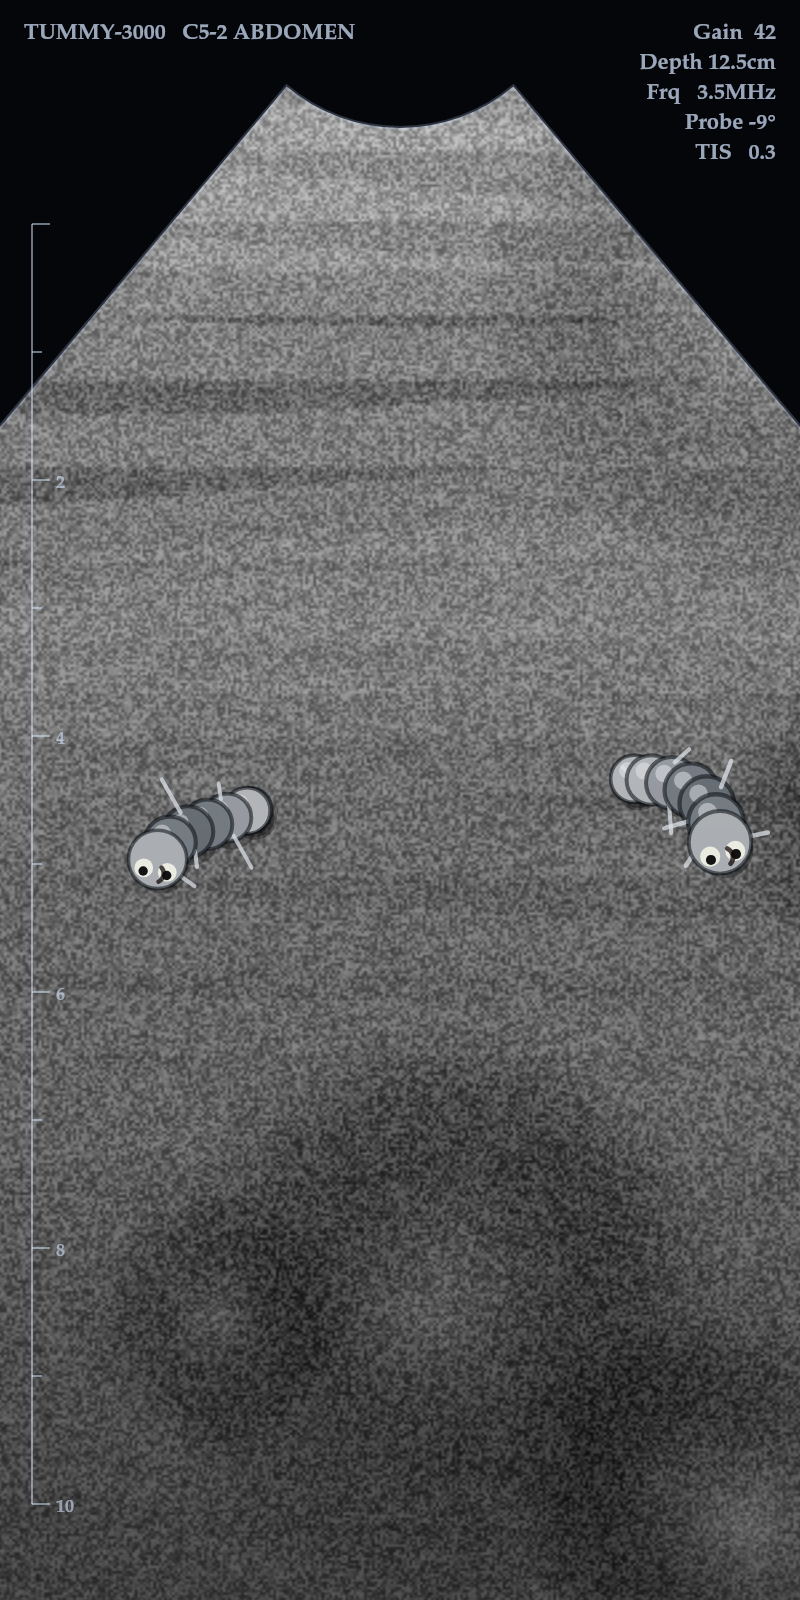
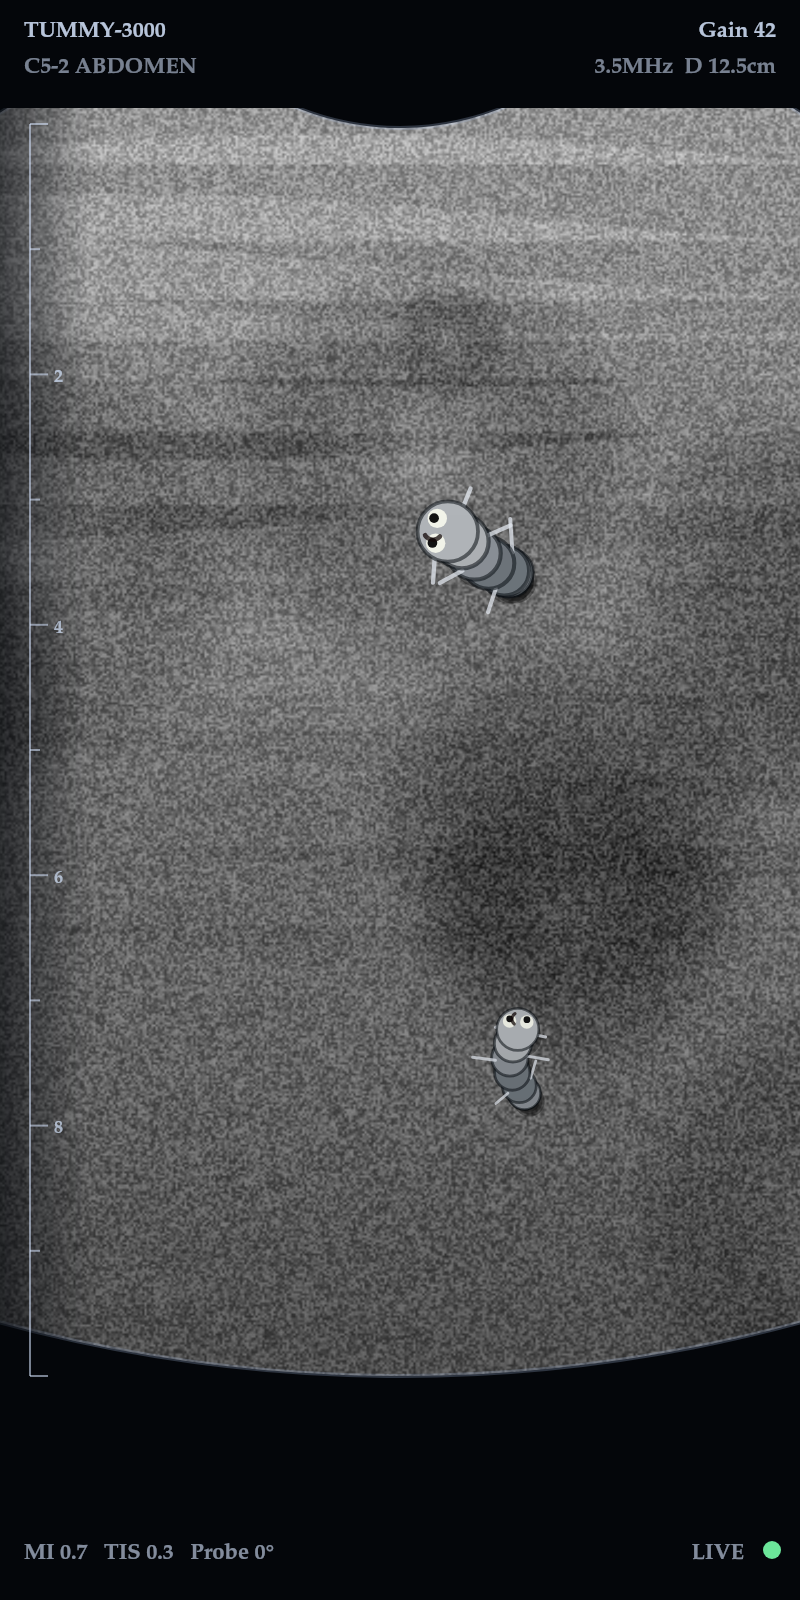
updated

diff --git a/index.html b/index.html
@@ -397,6 +397,30 @@
       .catch(function () { return false; });
   }
 
+  // Keep the belly sharp. Not every phone exposes these, so everything is optional.
+  function applyFocus(nx, ny) {
+    if (!track || !track.getCapabilities || !track.applyConstraints) return;
+    var caps;
+    try { caps = track.getCapabilities() || {}; } catch (e) { return; }
+    var adv = [];
+
+    if (caps.focusMode) {
+      var modes = caps.focusMode;
+      if (modes.indexOf("continuous") >= 0) adv.push({ focusMode: "continuous" });
+      else if (modes.indexOf("single-shot") >= 0) adv.push({ focusMode: "single-shot" });
+    }
+    // aim the focus (and metering, where supported) at the spot that was tapped
+    if (nx != null && caps.pointsOfInterest) {
+      var pt = [{ x: clamp(nx, 0, 1), y: clamp(ny, 0, 1) }];
+      adv.push({ pointsOfInterest: pt });
+      if (caps.exposureMode && caps.exposureMode.indexOf("continuous") >= 0) {
+        adv.push({ exposureMode: "continuous" });
+      }
+    }
+    if (!adv.length) return;
+    try { track.applyConstraints({ advanced: adv }).catch(function () {}); } catch (e) {}
+  }
+
   function stopCamera() {
     setTorch(false);
     if (stream) { stream.getTracks().forEach(function (t) { t.stop(); }); }
@@ -418,17 +442,27 @@
   // ------------------------------------------------------------------
   // MOTION SENSORS — moving the phone moves the picture, like a real probe
   // ------------------------------------------------------------------
-  var tiltRaw = { x: 0, y: 0 };     // -1..1 from the gyroscope
-  var tilt = { x: 0, y: 0 };        // smoothed
-  var panX = 0, panY = 0;           // pixels the image is shifted by
-  var frozenPan = { x: 0, y: 0 };
+  // Worms are anchored to a spot on the belly, not to the screen. The live
+  // camera already shows the real movement, so all we do is shift the worms
+  // the opposite way as the phone turns, which pins them in place.
+  //
+  // Orientation comes from beta/gamma, which are gravity-referenced and so
+  // don't drift the way an integrated gyro would.
+  var rawOri = { x: 0, y: 0 };      // degrees, straight off the sensor
+  var ori = { x: 0, y: 0 };         // smoothed
+  var oriRef = null;                // orientation when the worms were placed
+  var camX = 0, camY = 0;           // how far the view has moved, in pixels
+  var frozenCam = { x: 0, y: 0 };
   var motionMag = 0, motionOn = false, motionAsked = false;
+
+  // how many pixels one degree of turn is worth — roughly a screen width per 50°
+  function pxPerDeg() { return (W || 400) / 50; }
 
   function onOrient(e) {
     if (e.gamma == null && e.beta == null) return;
     motionOn = true;
-    tiltRaw.x = clamp((e.gamma || 0) / 40, -1, 1);          // roll left/right
-    tiltRaw.y = clamp(((e.beta || 0) - 50) / 40, -1, 1);    // pitch, around a natural holding angle
+    rawOri.x = e.gamma || 0;   // roll: left / right
+    rawOri.y = e.beta || 0;    // pitch: up / down
   }
 
   function onMotion(e) {
@@ -457,17 +491,27 @@
   }
 
   function updateMotion(dt) {
-    var k = Math.min(1, dt * 5.5);
-    tilt.x += (tiltRaw.x - tilt.x) * k;
-    tilt.y += (tiltRaw.y - tilt.y) * k;
+    var k = Math.min(1, dt * 9);
+    ori.x += (rawOri.x - ori.x) * k;
+    ori.y += (rawOri.y - ori.y) * k;
+
     // the hiss swells a little when the probe is moving
     if (noiseGain) {
       try { noiseGain.gain.value = clamp(0.04 + motionMag * 0.06, 0, 0.11); } catch (e) {}
     }
-    if (isFrozen) { panX = frozenPan.x; panY = frozenPan.y; return; }
-    panX = tilt.x * W * 0.17;
-    panY = tilt.y * H * 0.09;
+
+    if (isFrozen) { camX = frozenCam.x; camY = frozenCam.y; return; }
+    if (!oriRef) { camX = 0; camY = 0; return; }
+    var p = pxPerDeg();
+    camX = (ori.x - oriRef.x) * p;
+    camY = (ori.y - oriRef.y) * p;
   }
+
+  // call when the worms are placed — "here is where the belly is"
+  function resetOrientationRef() { oriRef = { x: ori.x, y: ori.y }; camX = 0; camY = 0; }
+
+  // screen position <-> belly ("world") position
+  function toWorld(sx, sy) { return { x: sx + camX, y: sy + camY }; }
 
   function setFrozen(on) {
     if (on) {
@@ -477,7 +521,7 @@
       frozenFrame.width = vw; frozenFrame.height = vh;
       frozenFrame.getContext("2d").drawImage(video, 0, 0, vw, vh);
       isFrozen = true;
-      frozenPan.x = panX; frozenPan.y = panY;   // lock the parallax too
+      frozenCam.x = camX; frozenCam.y = camY;   // lock the anchoring too
       torchBeforeFreeze = torchOn;
       setTorch(false);
       setStatus("Picture held ❄ — take the phone off and show them!");
@@ -582,9 +626,12 @@
   // ------------------------------------------------------------------
   function coneParams(w, h) {
     return {
-      ax: w / 2, ay: -h * 0.03,
-      a0: Math.PI / 2 - 0.70, a1: Math.PI / 2 + 0.70,
-      rIn: h * 0.11, rOut: h * 1.40
+      // ~62 degrees each side of straight down: a wide, shallow fan.
+      // rOut stops short of the bottom so the curved lower edge stays visible —
+      // without it the shape just reads as a rectangle with clipped corners.
+      ax: w / 2, ay: -h * 0.09,
+      a0: Math.PI / 2 - 1.00, a1: Math.PI / 2 + 1.00,
+      rIn: h * 0.17, rOut: h * 0.95
     };
   }
 
@@ -615,8 +662,13 @@
   // ------------------------------------------------------------------
   function Worm(x, y) {
     var sp = spawnPoint();
-    this.x = x != null ? x : sp.x;
-    this.y = y != null ? y : sp.y;
+    // positions are in belly ("world") space, not screen space
+    var p = toWorld(x != null ? x : sp.x, y != null ? y : sp.y);
+    this.x = p.x;
+    this.y = p.y;
+    this.homeX = p.x;          // the spot on the belly it belongs to
+    this.homeY = p.y;
+    this.roam = rand(26, 46);  // how far it will stray from that spot
     this.dir = rand(0, Math.PI * 2);
     this.speed = rand(16, 40);
     this.nSeg = randInt(12, 18);
@@ -646,20 +698,30 @@
     // wander: sine wiggle + gentle random steering
     this.dir += Math.sin(t * this.wig + this.phase) * dt * 2.4 + rand(-0.6, 0.6) * dt;
 
-    // keep them inside the ultrasound fan — bounce off the edge of the beam
+    // stay around the spot it was pinned to
+    if (!this.dying) {
+      var hx = this.homeX - this.x, hy = this.homeY - this.y;
+      var hd = Math.sqrt(hx * hx + hy * hy);
+      if (hd > this.roam) {
+        var toHome = Math.atan2(hy, hx);
+        var dh = Math.atan2(Math.sin(toHome - this.dir), Math.cos(toHome - this.dir));
+        var pull = Math.min(1, (hd - this.roam) / 50);
+        this.dir += clamp(dh, -1.2, 1.2) * pull * dt * 7;
+        if (hd > this.roam * 3) this.dir = toHome;   // yanked far away: head straight back
+      }
+    }
+
     var nx = this.x + Math.cos(this.dir) * this.speed * dt;
     var ny = this.y + Math.sin(this.dir) * this.speed * dt;
-    if (this.dying || insideCone(nx, ny, this.thick * 2.2)) {
+
+    // the beam lives in screen space, so test there
+    if (this.dying || insideCone(nx - camX, ny - camY, this.thick * 2.2)) {
       this.x = nx; this.y = ny;
     } else {
-      // turn back toward the middle of the beam
-      var k = coneParams(W, H);
-      var toMid = Math.atan2(H * 0.55 - this.y, W / 2 - this.x);
-      var diff = Math.atan2(Math.sin(toMid - this.dir), Math.cos(toMid - this.dir));
-      this.dir += clamp(diff, -1, 1) * 0.55 + rand(-0.2, 0.2);
+      var toMid = Math.atan2((H * 0.5 + camY) - this.y, (W / 2 + camX) - this.x);
+      var dm = Math.atan2(Math.sin(toMid - this.dir), Math.cos(toMid - this.dir));
+      this.dir += clamp(dm, -1, 1) * 0.55 + rand(-0.2, 0.2);
     }
-    this.x = clamp(this.x, 8, Math.max(9, W - 8));
-    this.y = clamp(this.y, 8, Math.max(9, H - 8));
 
     // body follows the head with fixed segment spacing
     var px = this.x, py = this.y;
@@ -985,11 +1047,13 @@
       // extra zoom leaves room to pan the image as the phone tilts.
       // canvas blur is the most expensive bit, so it's dropped on slow phones
       // and only used at all when the probe is actually moving.
+      // The feed is NOT panned. It's a live camera — it already moves when the
+      // phone moves. Faking a shift on top of that fights the real image.
       var base = "grayscale(1) contrast(1.5) brightness(0.82)";
       var blur = lowQ ? 0 : 0.4 + motionMag * 1.6;
       c.filter = blur > 0.05 ? base + " blur(" + blur.toFixed(2) + "px)" : base;
-      if (isFrozen && frozenFrame) drawCover(c, frozenFrame, frozenFrame.width, frozenFrame.height, w, h, panX, panY, 1.2);
-      else if (video.videoWidth) drawCover(c, video, video.videoWidth, video.videoHeight, w, h, panX, panY, 1.2);
+      if (isFrozen && frozenFrame) drawCover(c, frozenFrame, frozenFrame.width, frozenFrame.height, w, h);
+      else if (video.videoWidth) drawCover(c, video, video.videoWidth, video.videoHeight, w, h);
       c.filter = "none";
     } catch (e) { c.filter = "none"; }
     c.restore();
@@ -1037,41 +1101,67 @@
 
   function drawChrome(c, w, h, t) {
     c.save();
-    c.font = "600 11px ui-monospace, Menlo, Consolas, monospace";
-    c.textBaseline = "top";
-    c.fillStyle = "rgba(215,230,255,0.72)";
-    c.fillText("TUMMY-3000   C5-2 ABDOMEN", 12, 10);
+    var mono = "ui-monospace, Menlo, Consolas, monospace";
 
-    var deg = Math.round(tilt.x * 40);
-    var lines = [
-      "Gain  42",
-      "Depth 12.5cm",
-      "Frq   3.5MHz",
-      "Probe " + (deg > 0 ? "+" : "") + deg + "°",
-      motionMag > 0.18 ? "** MOVING **" : "TIS   0.3"
-    ];
+    // ---- header bar: sits just above the probe face, so text is never on tissue
+    var hb = 54;
+    c.fillStyle = "#04060a";
+    c.fillRect(0, 0, w, hb);
+    c.font = "600 11px " + mono;
+    c.textBaseline = "top";
+    c.fillStyle = "rgba(215,230,255,0.85)";
+    c.fillText("TUMMY-3000", 12, 9);
+    c.fillStyle = "rgba(215,230,255,0.55)";
+    c.fillText("C5-2 ABDOMEN", 12, 27);
+
     c.textAlign = "right";
-    for (var i = 0; i < lines.length; i++) c.fillText(lines[i], w - 12, 10 + i * 15);
+    c.fillStyle = "rgba(215,230,255,0.85)";
+    c.fillText("Gain 42", w - 12, 9);
+    c.fillStyle = "rgba(215,230,255,0.55)";
+    c.fillText("3.5MHz  D 12.5cm", w - 12, 27);
     c.textAlign = "left";
 
-    // depth ruler down the left edge
-    c.strokeStyle = "rgba(215,230,255,0.5)";
+    // ---- footer strip in the black below the fan
+    var fy = h - 30;
+    c.fillStyle = "#04060a";
+    c.fillRect(0, fy - 6, w, h - fy + 6);
+    var deg = Math.round(oriRef ? (ori.x - oriRef.x) : ori.x);
+    c.font = "600 11px " + mono;
     c.fillStyle = "rgba(215,230,255,0.6)";
+    c.fillText("MI 0.7   TIS 0.3   Probe " + (deg > 0 ? "+" : "") + deg + "°", 12, fy);
+
+    c.textAlign = "right";
+    if (motionMag > 0.18) {
+      c.fillStyle = "rgba(255,205,120,0.95)";
+      c.fillText("** MOVING **", w - 28, fy);
+    } else {
+      c.fillStyle = "rgba(215,230,255,0.6)";
+      c.fillText("LIVE", w - 28, fy);
+    }
+    c.textAlign = "left";
+    if (Math.sin(t * 4) > 0) {
+      c.fillStyle = "rgba(120,255,170,0.9)";
+      c.beginPath(); c.arc(w - 14, fy + 5, 4.5, 0, 6.2832); c.fill();
+    }
+
+    // ---- depth ruler, on its own dimmed strip so the numbers stay legible
+    var top = hb + 8, bot = h * 0.86;
+    var g = c.createLinearGradient(0, 0, 44, 0);
+    g.addColorStop(0, "rgba(4,6,10,0.62)");
+    g.addColorStop(1, "rgba(4,6,10,0)");
+    c.fillStyle = g;
+    c.fillRect(0, hb, 44, bot - hb + 14);
+
+    c.strokeStyle = "rgba(215,230,255,0.55)";
+    c.fillStyle = "rgba(215,230,255,0.7)";
     c.lineWidth = 1;
-    c.font = "600 9px ui-monospace, Menlo, Consolas, monospace";
-    var top = h * 0.14, bot = h * 0.94;
-    c.beginPath(); c.moveTo(16, top); c.lineTo(16, bot); c.stroke();
+    c.font = "600 9px " + mono;
+    c.beginPath(); c.moveTo(15, top); c.lineTo(15, bot); c.stroke();
     for (var d = 0; d <= 10; d++) {
       var yy = top + (bot - top) * (d / 10);
       var major = d % 2 === 0;
-      c.beginPath(); c.moveTo(16, yy); c.lineTo(16 + (major ? 9 : 5), yy); c.stroke();
-      if (major && d > 0) c.fillText(String(d), 28, yy - 4);
-    }
-
-    // blinking live indicator
-    if (Math.sin(t * 4) > 0) {
-      c.fillStyle = "rgba(120,255,170,0.9)";
-      c.beginPath(); c.arc(w - 16, h - 16, 4.5, 0, 6.2832); c.fill();
+      c.beginPath(); c.moveTo(15, yy); c.lineTo(15 + (major ? 9 : 5), yy); c.stroke();
+      if (major && d > 0 && d < 10) c.fillText(String(d), 27, yy - 4);
     }
     c.restore();
   }
@@ -1111,8 +1201,8 @@
     if (opts.worms && worms.length) {
       c.save();
       conePath(c, w, h, false); c.clip();
-      // worms slide with the tissue, slightly less than the surface — reads as depth
-      c.translate(panX * 0.82, panY * 0.82);
+      // worms hold their spot on the belly: shift them opposite to the view
+      c.translate(-camX, -camY);
       for (var i = worms.length - 1; i >= 0; i--) worms[i].draw(c, t);
       c.restore();
     }
@@ -1177,6 +1267,8 @@
     if (MODE !== "scanning") return;
     MODE = "play";
     $("revealWrap").classList.add("hidden");
+    // "the belly is here" — worms are pinned relative to this orientation
+    resetOrientationRef();
     worms = [];
     var n = wormTarget();
     for (var i = 0; i < n; i++) worms.push(new Worm());
@@ -1237,6 +1329,7 @@
       updateCount();
       setStatus(SCAN_LINES[0]);
       setTorch(true);
+      applyFocus(0.5, 0.5);
       startNoise();
       keepAwake(true);
       buzz(50);
@@ -1310,23 +1403,44 @@
     setTorch(!torchOn);
   });
 
-  // tapping a worm pokes it (fun, doesn't remove it — food does that)
+  // Tap the belly to pin the nearest worm to that spot, and point the camera's
+  // focus there at the same time.
   canvas.addEventListener("pointerdown", function (ev) {
-    if (MODE !== "play") return;
+    if (MODE !== "play" && MODE !== "scanning") return;
     var r = canvas.getBoundingClientRect();
-    // undo the motion parallax so taps land on where the worm actually looks
-    var x = ev.clientX - r.left - panX * 0.82, y = ev.clientY - r.top - panY * 0.82;
+    var sx = ev.clientX - r.left, sy = ev.clientY - r.top;
+
+    var vw = r.width || canvas.clientWidth || W || 1;
+    var vh = r.height || canvas.clientHeight || H || 1;
+    applyFocus(sx / vw, sy / vh);
+
+    if (MODE !== "play" || !worms.length) {
+      setStatus("Focusing there 🎯");
+      buzz(15);
+      return;
+    }
+    if (!insideCone(sx, sy, 40)) {
+      setStatus("Tap inside the scan area 🎯");
+      return;
+    }
+
+    // nearest worm, measured on screen where the finger actually is
+    var target = null, best = 1e9;
     for (var i = 0; i < worms.length; i++) {
       var w = worms[i];
-      if (Math.hypot(w.x - x, w.y - y) < w.thick * 3.2 && !w.dying) {
-        w.dir += rand(2, 4);
-        w.speed = Math.min(90, w.speed * 1.6);
-        burst(w.x, w.y, "#dfe9f5", 6);
-        setStatus("It wriggled! Poking won't move it — food will 🍎");
-        buzz(20);
-        return;
-      }
+      if (w.dying) continue;
+      var d = Math.hypot((w.x - camX) - sx, (w.y - camY) - sy);
+      if (d < best) { best = d; target = w; }
     }
+    if (!target) return;
+
+    var p = toWorld(sx, sy);
+    target.homeX = p.x; target.homeY = p.y;
+    burst(sx, sy, "#dfe9f5", 8);
+    buzz(25);
+    setStatus(best < target.thick * 3.5
+      ? "Pinned 📍 it'll stay on that spot"
+      : "Come here! 📍 heading to that spot");
   });
 
   document.addEventListener("visibilitychange", function () {
